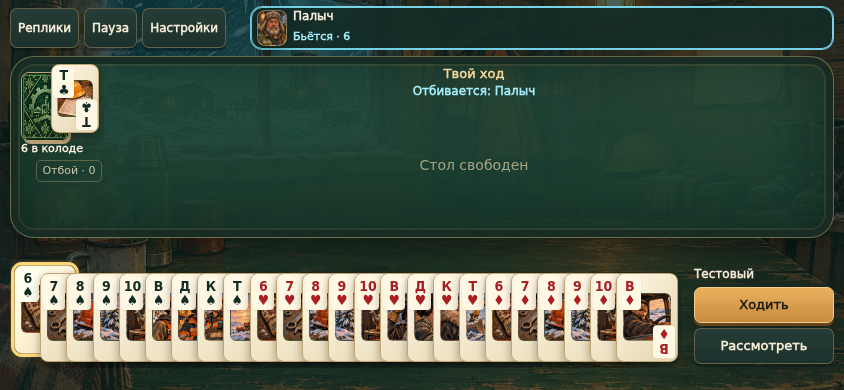
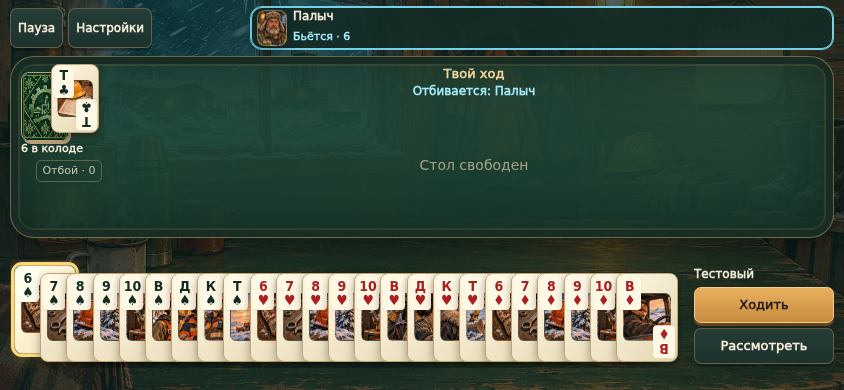
Remove dialogue history button from game toolbar

Changed region(s): [[0.0308, 0.0, 0.2773, 0.1231]]

diff --git a/sw.js b/sw.js
@@ -1,6 +1,6 @@
 /* Network first for navigation and assets. A failed connection falls back to this exact release. */
-const BUILD = {"version":"1.8.0","id":"fca7a3f2470fd5c2","html":"index-fca7a3f2470fd5c2.html","js":"public/build/app-fca7a3f2470fd5c2.js","css":"public/build/app-fca7a3f2470fd5c2.css"},
-  FILES = ["index.html","index-fca7a3f2470fd5c2.html","public/build/app-fca7a3f2470fd5c2.js","public/build/app-fca7a3f2470fd5c2.css","public/assets/audio/button.wav?v=fca7a3f2470fd5c2","public/assets/audio/card.wav?v=fca7a3f2470fd5c2","public/assets/audio/cover.wav?v=fca7a3f2470fd5c2","public/assets/audio/deal.wav?v=fca7a3f2470fd5c2","public/assets/audio/event.wav?v=fca7a3f2470fd5c2","public/assets/audio/kettle.wav?v=fca7a3f2470fd5c2","public/assets/audio/music.wav?v=fca7a3f2470fd5c2","public/assets/audio/take.wav?v=fca7a3f2470fd5c2","public/assets/audio/win.wav?v=fca7a3f2470fd5c2","public/assets/audio/wind.wav?v=fca7a3f2470fd5c2","public/assets/cards.webp?v=fca7a3f2470fd5c2","public/assets/decor.webp?v=fca7a3f2470fd5c2","public/assets/events.webp?v=fca7a3f2470fd5c2","public/assets/fonts/LICENSE.txt?v=fca7a3f2470fd5c2","public/assets/fonts/body.ttf?v=fca7a3f2470fd5c2","public/assets/fonts/heading.ttf?v=fca7a3f2470fd5c2","public/assets/npc-extra.webp?v=fca7a3f2470fd5c2","public/assets/npc.webp?v=fca7a3f2470fd5c2","public/assets/room.webp?v=fca7a3f2470fd5c2"];
+const BUILD = {"version":"1.8.1","id":"db20b4e96616766f","html":"index-db20b4e96616766f.html","js":"public/build/app-db20b4e96616766f.js","css":"public/build/app-db20b4e96616766f.css"},
+  FILES = ["index.html","index-db20b4e96616766f.html","public/build/app-db20b4e96616766f.js","public/build/app-db20b4e96616766f.css","public/assets/audio/button.wav?v=db20b4e96616766f","public/assets/audio/card.wav?v=db20b4e96616766f","public/assets/audio/cover.wav?v=db20b4e96616766f","public/assets/audio/deal.wav?v=db20b4e96616766f","public/assets/audio/event.wav?v=db20b4e96616766f","public/assets/audio/kettle.wav?v=db20b4e96616766f","public/assets/audio/music.wav?v=db20b4e96616766f","public/assets/audio/take.wav?v=db20b4e96616766f","public/assets/audio/win.wav?v=db20b4e96616766f","public/assets/audio/wind.wav?v=db20b4e96616766f","public/assets/cards.webp?v=db20b4e96616766f","public/assets/decor.webp?v=db20b4e96616766f","public/assets/events.webp?v=db20b4e96616766f","public/assets/fonts/LICENSE.txt?v=db20b4e96616766f","public/assets/fonts/body.ttf?v=db20b4e96616766f","public/assets/fonts/heading.ttf?v=db20b4e96616766f","public/assets/npc-extra.webp?v=db20b4e96616766f","public/assets/npc.webp?v=db20b4e96616766f","public/assets/room.webp?v=db20b4e96616766f"];
 const SCOPE = new URL(self.registration.scope).pathname;
 const PREFIX = "durak-vahta-" + SCOPE.replace(/[^a-z0-9]/gi, "_") + "-";
 const CACHE = PREFIX + BUILD.id;

diff --git a/index-db20b4e96616766f.html b/index-db20b4e96616766f.html
@@ -4,7 +4,7 @@
 <head>
 <meta charset="utf-8">
 <meta name="viewport" content="width=device-width,initial-scale=1,viewport-fit=cover,interactive-widget=resizes-content">
-<meta name="vahta-build" content="fca7a3f2470fd5c2">
+<meta name="vahta-build" content="db20b4e96616766f">
 <meta name="theme-color" content="#162c29">
 <meta http-equiv="Cache-Control" content="no-cache, no-store, must-revalidate">
 <title>Дурак на вахте</title>
@@ -13,7 +13,7 @@
 <body>
 <div id="app"></div><div id="overlay"></div><div id="toast" role="status" aria-live="polite"></div>
 <div id="boot" role="status"><span>Загрузка игры…</span></div>
-<script>window.VahtaBuild={"version":"1.8.0","id":"fca7a3f2470fd5c2","html":"index-fca7a3f2470fd5c2.html","js":"public/build/app-fca7a3f2470fd5c2.js","css":"public/build/app-fca7a3f2470fd5c2.css"};
+<script>window.VahtaBuild={"version":"1.8.1","id":"db20b4e96616766f","html":"index-db20b4e96616766f.html","js":"public/build/app-db20b4e96616766f.js","css":"public/build/app-db20b4e96616766f.css"};
 /* Revalidate before starting any game code. Offline fallback never mixes releases. */
 (async function () {
   "use strict";

diff --git a/index.html b/index.html
@@ -4,7 +4,7 @@
 <head>
 <meta charset="utf-8">
 <meta name="viewport" content="width=device-width,initial-scale=1,viewport-fit=cover,interactive-widget=resizes-content">
-<meta name="vahta-build" content="fca7a3f2470fd5c2">
+<meta name="vahta-build" content="db20b4e96616766f">
 <meta name="theme-color" content="#162c29">
 <meta http-equiv="Cache-Control" content="no-cache, no-store, must-revalidate">
 <title>Дурак на вахте</title>
@@ -13,7 +13,7 @@
 <body>
 <div id="app"></div><div id="overlay"></div><div id="toast" role="status" aria-live="polite"></div>
 <div id="boot" role="status"><span>Загрузка игры…</span></div>
-<script>window.VahtaBuild={"version":"1.8.0","id":"fca7a3f2470fd5c2","html":"index-fca7a3f2470fd5c2.html","js":"public/build/app-fca7a3f2470fd5c2.js","css":"public/build/app-fca7a3f2470fd5c2.css"};
+<script>window.VahtaBuild={"version":"1.8.1","id":"db20b4e96616766f","html":"index-db20b4e96616766f.html","js":"public/build/app-db20b4e96616766f.js","css":"public/build/app-db20b4e96616766f.css"};
 /* Revalidate before starting any game code. Offline fallback never mixes releases. */
 (async function () {
   "use strict";

diff --git a/public/build/app-db20b4e96616766f.js b/public/build/app-db20b4e96616766f.js
@@ -2959,7 +2959,7 @@
         ),
       )
       .join("");
-    return `${header()}<main class="game-scene"><div class="game-toolbar"><span class="eyebrow"><span class="mode-label">${G.options.variant === "transfer" ? "ПЕРЕВОДНОЙ" : "ПОДКИДНОЙ"} · ${G.options.chaos ? "БЕСПРЕДЕЛ" : "КЛАССИКА"}</span><span class="round-label">РАУНД ${G.round}</span></span><div>${button("Реплики", "talk", "small")}${button("Пауза", "pause", "small")}${button("Настройки", "settings", "small")}</div></div><div class="opponents">${G.players
+    return `${header()}<main class="game-scene"><div class="game-toolbar"><span class="eyebrow"><span class="mode-label">${G.options.variant === "transfer" ? "ПЕРЕВОДНОЙ" : "ПОДКИДНОЙ"} · ${G.options.chaos ? "БЕСПРЕДЕЛ" : "КЛАССИКА"}</span><span class="round-label">РАУНД ${G.round}</span></span><div>${button("Пауза", "pause", "small")}${button("Настройки", "settings", "small")}</div></div><div class="opponents">${G.players
       .slice(1)
       .map(
         (p, j) =>

diff --git a/src/main.js b/src/main.js
@@ -226,7 +226,7 @@
         ),
       )
       .join("");
-    return `${header()}<main class="game-scene"><div class="game-toolbar"><span class="eyebrow"><span class="mode-label">${G.options.variant === "transfer" ? "ПЕРЕВОДНОЙ" : "ПОДКИДНОЙ"} · ${G.options.chaos ? "БЕСПРЕДЕЛ" : "КЛАССИКА"}</span><span class="round-label">РАУНД ${G.round}</span></span><div>${button("Реплики", "talk", "small")}${button("Пауза", "pause", "small")}${button("Настройки", "settings", "small")}</div></div><div class="opponents">${G.players
+    return `${header()}<main class="game-scene"><div class="game-toolbar"><span class="eyebrow"><span class="mode-label">${G.options.variant === "transfer" ? "ПЕРЕВОДНОЙ" : "ПОДКИДНОЙ"} · ${G.options.chaos ? "БЕСПРЕДЕЛ" : "КЛАССИКА"}</span><span class="round-label">РАУНД ${G.round}</span></span><div>${button("Пауза", "pause", "small")}${button("Настройки", "settings", "small")}</div></div><div class="opponents">${G.players
       .slice(1)
       .map(
         (p, j) =>

diff --git a/public/build/app-db20b4e96616766f.css b/public/build/app-db20b4e96616766f.css
@@ -1,10 +1,10 @@
 @font-face {
   font-family: Vahta;
-  src: url("../../public/assets/fonts/heading.ttf?v=fca7a3f2470fd5c2");
+  src: url("../../public/assets/fonts/heading.ttf?v=db20b4e96616766f");
 }
 @font-face {
   font-family: Local;
-  src: url("../../public/assets/fonts/body.ttf?v=fca7a3f2470fd5c2");
+  src: url("../../public/assets/fonts/body.ttf?v=db20b4e96616766f");
 }
 * {
   box-sizing: border-box;
@@ -21,14 +21,14 @@ body {
   line-height: 1.5;
   background:
     linear-gradient(90deg, rgba(11, 26, 25, 0.9), rgba(11, 26, 25, 0.28)),
-    url("../../public/assets/room.webp?v=fca7a3f2470fd5c2") center/cover fixed;
+    url("../../public/assets/room.webp?v=db20b4e96616766f") center/cover fixed;
   min-height: 100vh;
 }
 body[data-screen="game"],
 body[data-screen="results"] {
   background:
     linear-gradient(#102722bd, #102722b0),
-    url("../../public/assets/room.webp?v=fca7a3f2470fd5c2") center/cover fixed;
+    url("../../public/assets/room.webp?v=db20b4e96616766f") center/cover fixed;
 }
 button,
 input,
